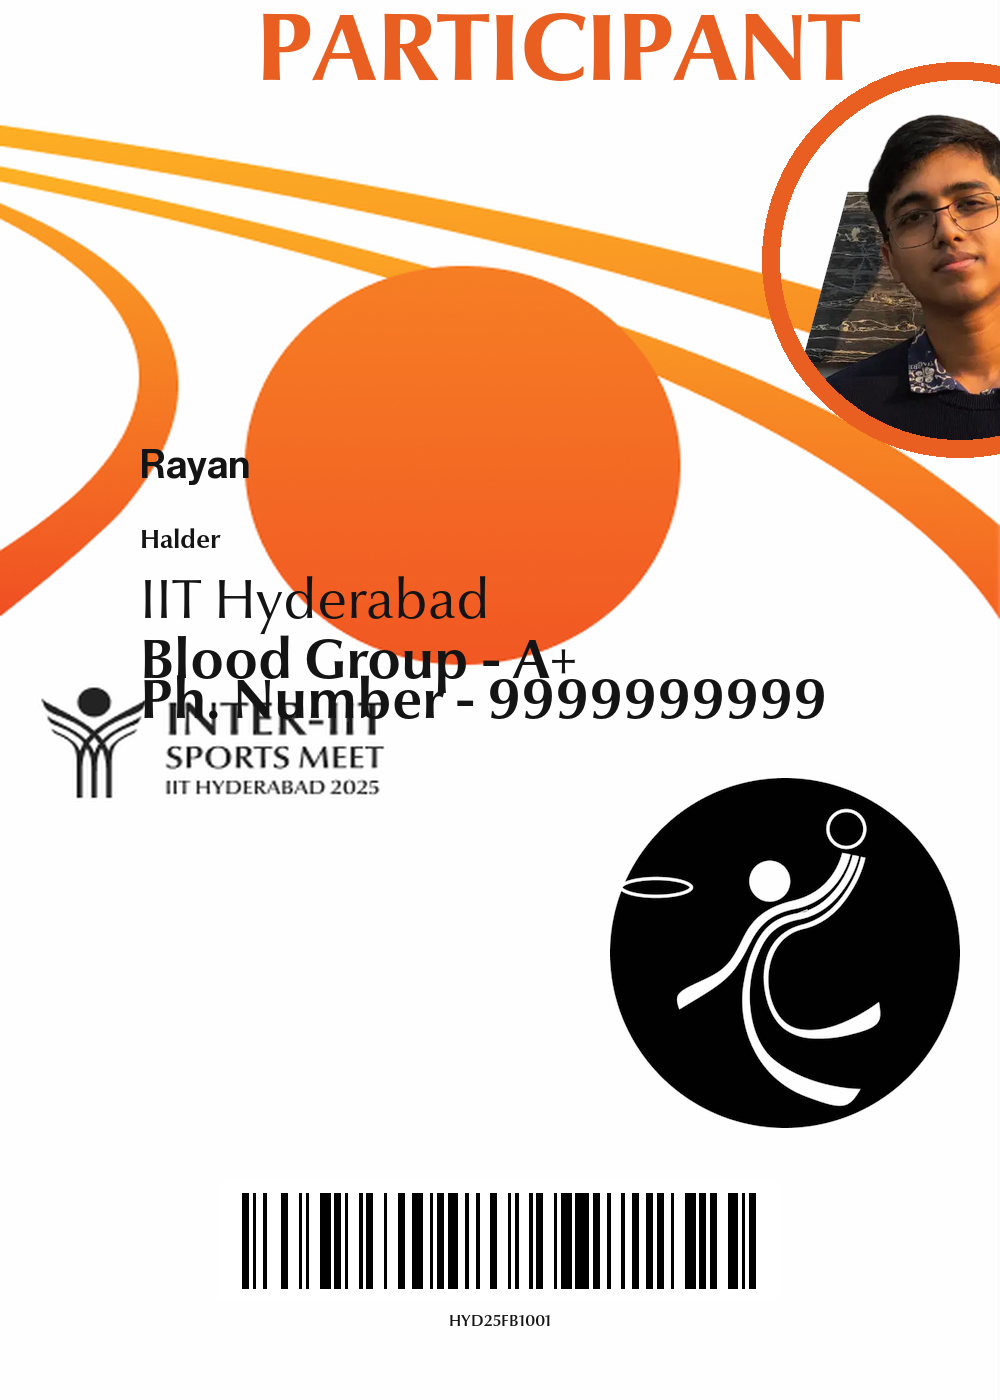
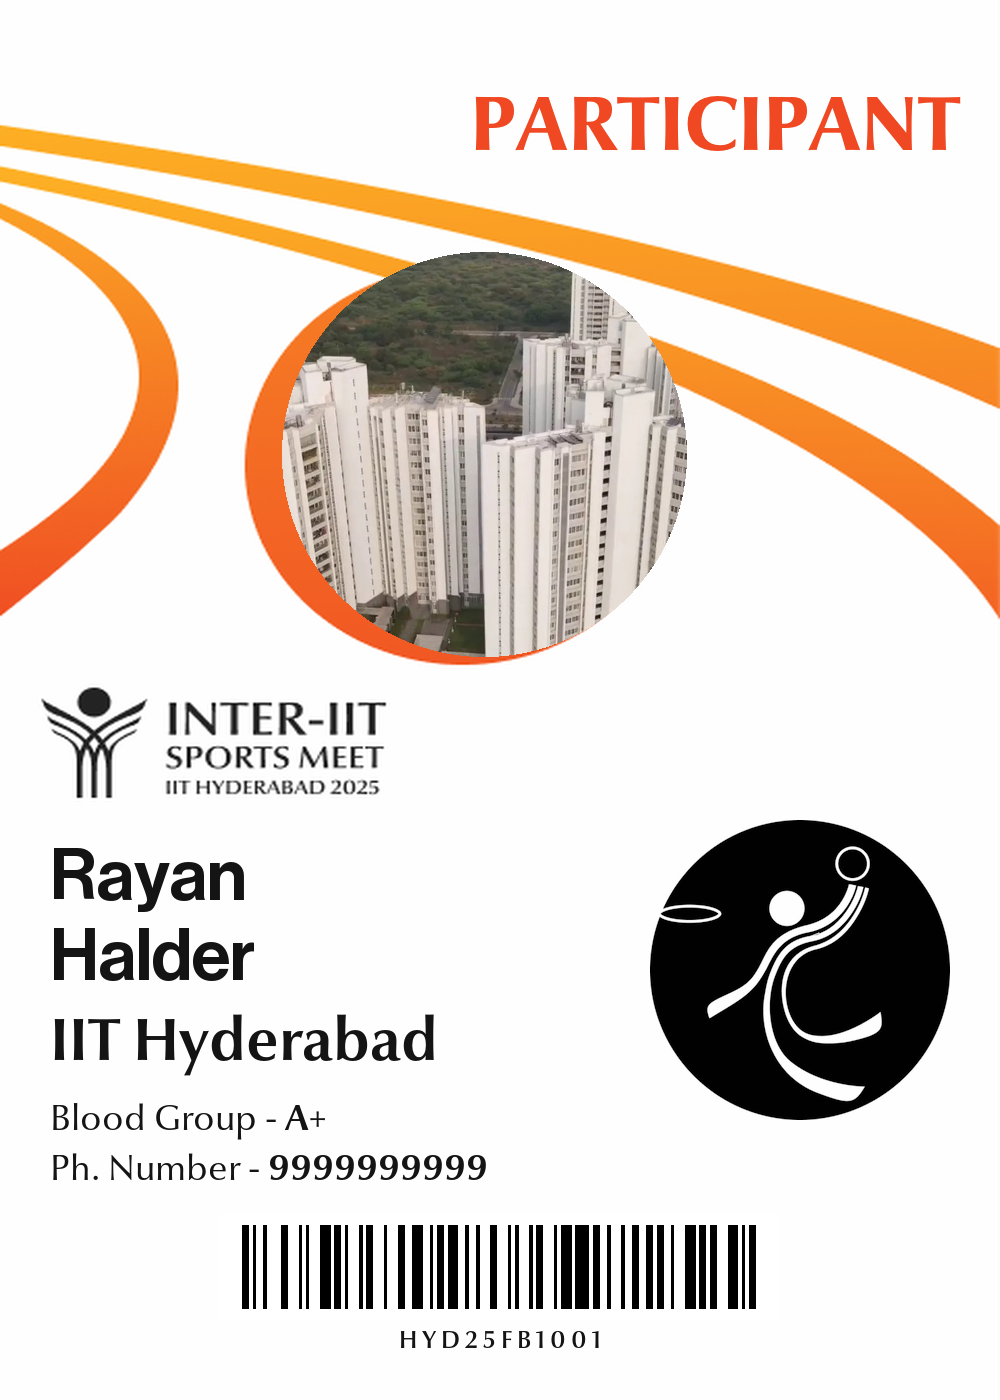
id_card final

diff --git a/id_card_gen/script.py b/id_card_gen/script.py
@@ -27,15 +27,15 @@ staff_bg_path = "ID_Staff_Front.png"              # staff background (your provi
 # fonts (adjust paths or install system fonts)
 # Provide robust fallbacks to PIL default fonts if custom font not available
 
-name_font_big = ImageFont.truetype("../fonts/neue-haas-grotesk-display-pro/NeueHaasDisplayMedium.ttf",40)
-name_font_small = ImageFont.truetype("../fonts/optima-nova-lt-pro/OptimaNovaLTProBold.otf",26)
-uni_font = ImageFont.truetype("../fonts/optima-nova-lt-pro/OptimaNovaLTProRegular.otf",56)
-role_font = ImageFont.truetype("../fonts/optima-nova-lt-pro/OptimaNovaLTProHeavy.otf",96)
-small_font = ImageFont.truetype("../fonts/optima-nova-lt-pro/OptimaNovaLTProBold.otf",56)
-code_font=ImageFont.truetype("../fonts/optima-nova-lt-pro/OptimaNovaLTProDemi.otf",45)
+name_font_big = ImageFont.truetype("../fonts/neue-haas-grotesk-display-pro/NeueHaasDisplayMedium.ttf",72)
+name_font_small = ImageFont.truetype("../fonts/optima-nova-lt-pro/OptimaNovaLTProBold.otf",60)
+uni_font = ImageFont.truetype("../fonts/optima-nova-lt-pro/OptimaNovaLTProRegular.otf",36)
+role_font = ImageFont.truetype("../fonts/optima-nova-lt-pro/OptimaNovaLTProHeavy.otf",78)
+small_font = ImageFont.truetype("../fonts/optima-nova-lt-pro/OptimaNovaLTProBold.otf",36)
+code_font=ImageFont.truetype("../fonts/optima-nova-lt-pro/OptimaNovaLTProDemi.otf",24)
 
 # visual params
-photo_diameter = 360        # pixel diameter of circular photo
+photo_diameter = 405        # pixel diameter of circular photo
 photo_border = 18           # ring width
 photo_center_x = 960        # center X of photo on canvas
 photo_center_y = 260        # center Y of photo on canvas
@@ -46,46 +46,33 @@ CARD_W, CARD_H = 1000, 1400
 # text colors
 WHITE = (255, 255, 255)
 BLACK = (20, 20, 20)
-ORANGE = (232, 95, 33)   # sample orange, tweak if needed
 DARK = (30, 30, 30)
 
 # ------------------------- HELPERS -------------------------
 
-def make_circle_avatar(img, diameter, border=12, border_color=ORANGE):
-    """Return circular avatar with border"""
-    # resize and crop to square
+def make_circle_avatar(img, diameter):
+    """Return a clean circular avatar with NO border."""
     img = img.convert("RGBA")
     w, h = img.size
-    side = min(w,h)
-    # center crop
-    left = (w-side)//2
-    top = (h-side)//2
-    img = img.crop((left, top, left+side, top+side)).resize((diameter, diameter), Image.LANCZOS)
+    side = min(w, h)
 
-    # mask
+    # Center crop to square
+    left = (w - side) // 2
+    top = (h - side) // 2
+    img = img.crop((left, top, left + side, top + side))
+    img = img.resize((diameter, diameter), Image.LANCZOS)
+
+    # Create circle mask
     mask = Image.new("L", (diameter, diameter), 0)
     draw = ImageDraw.Draw(mask)
-    draw.ellipse((0,0,diameter-1,diameter-1), fill=255)
+    draw.ellipse((0, 0, diameter - 1, diameter - 1), fill=255)
 
-    # avatar base
-    avatar = Image.new("RGBA", (diameter, diameter), (0,0,0,0))
-    avatar.paste(img, (0,0), mask)
+    # Apply mask (circle crop)
+    avatar = Image.new("RGBA", (diameter, diameter), (0, 0, 0, 0))
+    avatar.paste(img, (0, 0), mask)
 
-    # ring
-    if border > 0:
-        ring_size = diameter + border*2
-        ring = Image.new("RGBA", (ring_size, ring_size), (0,0,0,0))
-        dr = ImageDraw.Draw(ring)
-        # outer circle
-        dr.ellipse((0,0,ring_size-1,ring_size-1), fill=border_color)
-        # inner hole
-        hole_bbox = (border, border, border+diameter-1, border+diameter-1)
-        dr.ellipse(hole_bbox, fill=(0,0,0,0))
-        # paste avatar onto ring
-        ring.paste(avatar, (border, border), avatar)
-        return ring
-    else:
-        return avatar
+    return avatar
+
 
 def generate_barcode_image(code_text, max_width=700, height=110):
     """Generate Code128 barcode using python-barcode and return PIL image"""
@@ -194,59 +181,77 @@ for idx, row in df.iterrows():
     # if no photo, use placeholder solid circle (orange)
     if pimg is None:
         placeholder = Image.new("RGBA", (photo_diameter, photo_diameter), (200,200,200))
-        avatar = make_circle_avatar(placeholder, photo_diameter, border=photo_border, border_color=ORANGE)
+        avatar = make_circle_avatar(placeholder, photo_diameter)
     else:
-        avatar = make_circle_avatar(pimg, photo_diameter, border=photo_border, border_color=ORANGE)
+        avatar = make_circle_avatar(pimg, photo_diameter)
 
     # compute paste location for avatar (top center area)
-    av_w, av_h = avatar.size
-    paste_x = photo_center_x - av_w // 2
-    paste_y = photo_center_y - av_h // 2
-    canvas.paste(avatar, (paste_x, paste_y), avatar)
+    canvas.paste(avatar, (282, 252), avatar)
 
     # Role (top-right)
     role_text = role.upper()
     # draw role text (orange)
-    role_x = CARD_W - 140
-    role_y = 80
-    draw.text((role_x, role_y), role_text, font=role_font, fill=ORANGE, anchor="rs")
+    role_x = CARD_W -40
+    role_y = 150
+    draw.text((role_x, role_y), role_text, font=role_font, fill="#EF4823", anchor="rs")
 
     # Draw name left area (under logo)
-    name_x = 140
-    name_y_top = photo_center_y + av_h//2 + 20
+    name_x = 50
+    name_y_top = 900
     # first line larger
     draw.text((name_x, name_y_top), name_l1, font=name_font_big, fill=BLACK, anchor="ls")
     # second (last name)
-    draw.text((name_x, name_y_top + 70), name_l2, font=name_font_small, fill=BLACK, anchor="ls")
+    draw.text((name_x, name_y_top + 80), name_l2, font=name_font_big, fill=BLACK, anchor="ls")
 
     # College (below name)
-    draw.text((name_x, name_y_top + 140), college_display, font=uni_font, fill=BLACK, anchor="ls")
+    draw.text((name_x, name_y_top + 160), college_display, font=name_font_small, fill=BLACK, anchor="ls")
 
     # Blood group and phone (below college)
-    draw.text((name_x, name_y_top + 200), f"Blood Group - {blood}", font=small_font, fill=BLACK, anchor="ls")
-    draw.text((name_x, name_y_top + 240), f"Ph. Number - {phone}", font=small_font, fill=BLACK, anchor="ls")
+    label = "Blood Group - "
+    value = blood  # e.g. "A+"
+
+    # Draw first part (uni_font)
+    draw.text((name_x, name_y_top + 230), label, font=uni_font, fill=BLACK, anchor="ls")
+
+    # Measure width of first part
+    label_width = draw.textbbox((0, 0), label, font=uni_font)[2]
+
+    # Draw second part (small_font) right after the first
+    draw.text((name_x + label_width, name_y_top + 230), value, font=small_font, fill=BLACK, anchor="ls")
+
+    label = "Ph. Number - "
+    value = phone  # e.g. "9344702682"
+
+    draw.text((name_x, name_y_top + 280), label, font=uni_font, fill=BLACK, anchor="ls")
+
+    label_width = draw.textbbox((0, 0), label, font=uni_font)[2]
+
+    draw.text((name_x + label_width, name_y_top + 280), value, font=small_font, fill=BLACK, anchor="ls")
+
+
 
     # Sport pictogram (bottom-right area)
     pict_path = os.path.join(pictogram_folder, f"{sport.capitalize()}.png")
 
     if os.path.exists(pict_path):
         pict = Image.open(pict_path).convert("RGBA")
-        pict.thumbnail((350,350),Image.LANCZOS)
-        pict_x = CARD_W - pict.width-40
-        pict_y = name_y_top + 300
+        pict.thumbnail((300,300),Image.LANCZOS)
+        pict_x = CARD_W - pict.width-50
+        pict_y = name_y_top - 80
         canvas.paste(pict, (pict_x, pict_y), pict)
 
     # Generate barcode
     if code_text:
         try:
-            barcode_img = generate_barcode_image(code_text, max_width=1400, height=80)
+            barcode_img = generate_barcode_image(code_text, max_width=1400, height=70)
             # paste barcode centered horizontally near bottom
             bc_w, bc_h = barcode_img.size
             bc_x = (CARD_W - bc_w) // 2
-            bc_y = CARD_H - bc_h - 100
+            bc_y = CARD_H - bc_h - 80
             canvas.paste(barcode_img, (bc_x, bc_y), barcode_img)
             # code text below barcode
-            draw.text((CARD_W//2, bc_y + bc_h + 22), code_text, font=code_font, fill=BLACK, anchor="mm")
+            spaced_code_text=" ".join(code_text)
+            draw.text((CARD_W//2, bc_y + bc_h + 22), spaced_code_text, font=code_font, fill=BLACK, anchor="mm")
         except Exception as e:
             print(f"Barcode generation failed for {code_text}: {e}")
 
